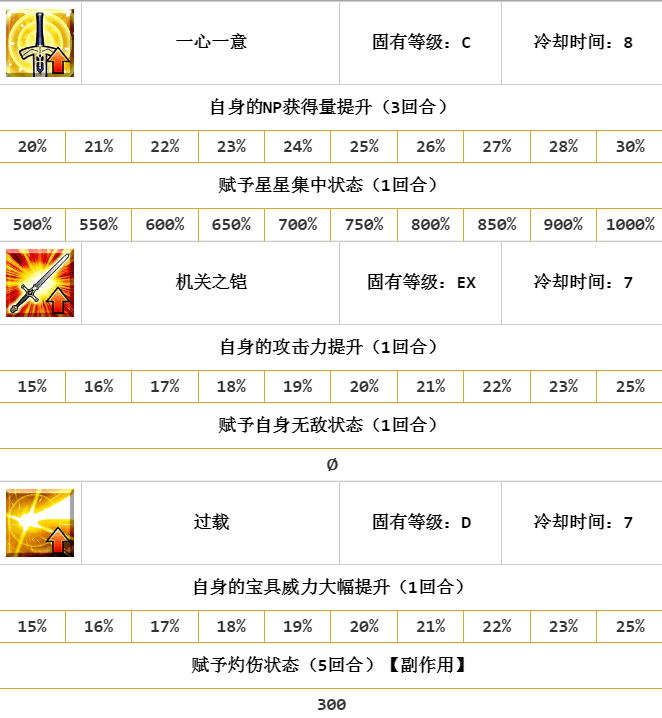
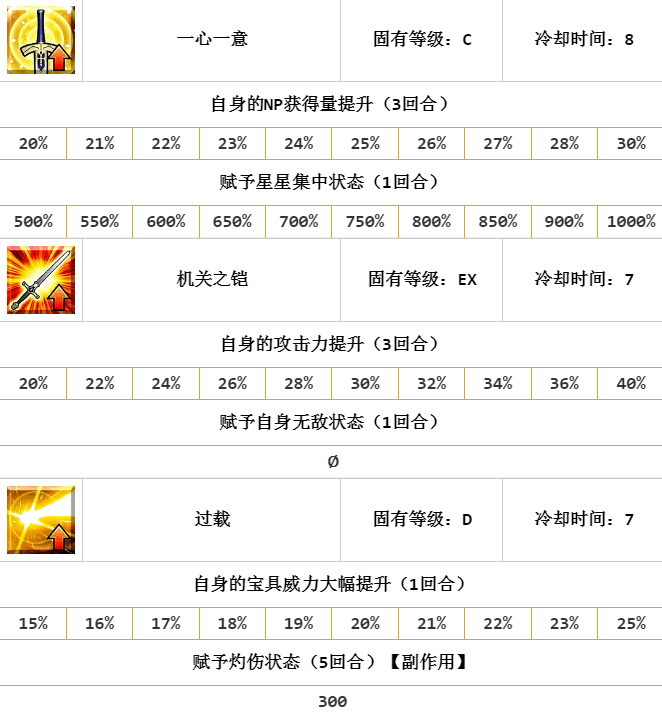
更新【保罗•班扬(Berserker)】从者数据、【玄奘三蔵(Caster)】宝具倍率、【查尔斯・巴贝奇(Caster)】技能图、【谜之女主角X〔Alter〕(Berserker)】技能图、【天草四郎(Ruler)】技能图

diff --git a/updatelog.html b/updatelog.html
@@ -3,12 +3,21 @@
 <head>
     <meta http-equiv="Content-Type" content="text/html; charset=utf-8" />
     <title></title>
+    <style type="text/css">
+        body {
+            font-size: 12px;
+        }
+    </style>
 </head>
 <body id="content">
+    <b>2017-08-03</b><br />
+    --更新【保罗•班扬(Berserker)】从者数据、【玄奘三蔵(Caster)】宝具倍率、【查尔斯・巴贝奇(Caster)】技能图、【谜之女主角X〔Alter〕(Berserker)】技能图、【天草四郎(Ruler)】技能图 <br />
     <b>2017-07-28</b><br />
-    --新增从者技能详情查看功能 <br />
+    --新增从者技能详情查看功能
+    <br />
     <b>2017-07-25</b><br />
-    --指令卡伤害计算器新增计算总伤害功能 <br />
+    --指令卡伤害计算器新增计算总伤害功能
+    <br />
     <b>2017-07-23</b><br />
     --录入从者职介技能数据，即被动buff，比如神性、狂化、单独行动等，现在选择从者后，该从者的职介技能数据会自动填充对应的表单内容。【宝具伤害计算器】和【指令卡伤害计算器】都实现这个功能了<br />
     --新增血斧OC加攻特效<br />

diff --git a/index.html b/index.html
@@ -13,7 +13,7 @@
 </head>
 <body style="text-align: center; padding-top: 10%">
     <p>原贴地址：<a href="http://bbs.ngacn.cc/read.php?tid=11783224">http://bbs.ngacn.cc/read.php?tid=11783224</a></p>
-    <h1><a href="calc4.html">宝具伤害计算器v4版(2017.07.28)</a></h1>
+    <h1><a href="calc4.html">宝具伤害计算器v4版(2017.08.03)</a></h1>
     <h1><a href="calc3.html">宝具伤害计算器v3版(2017.06.10)</a></h1>
     <h1><a href="calc2.html">宝具伤害计算器v2版(2017.06.09)</a></h1>
 </body>
